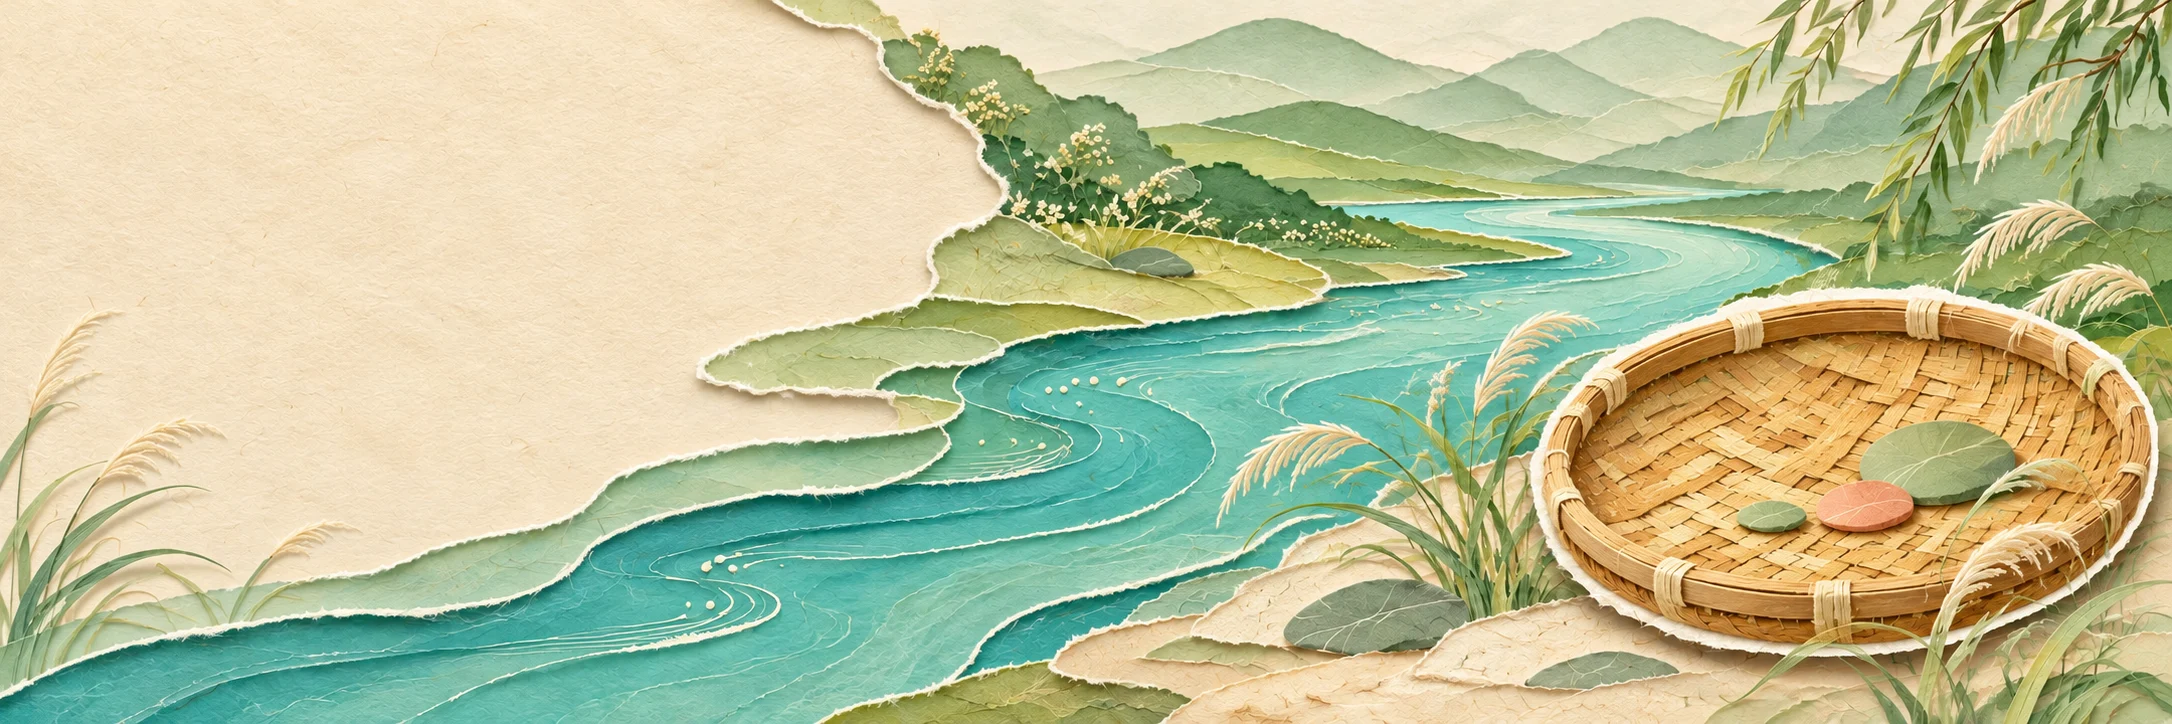
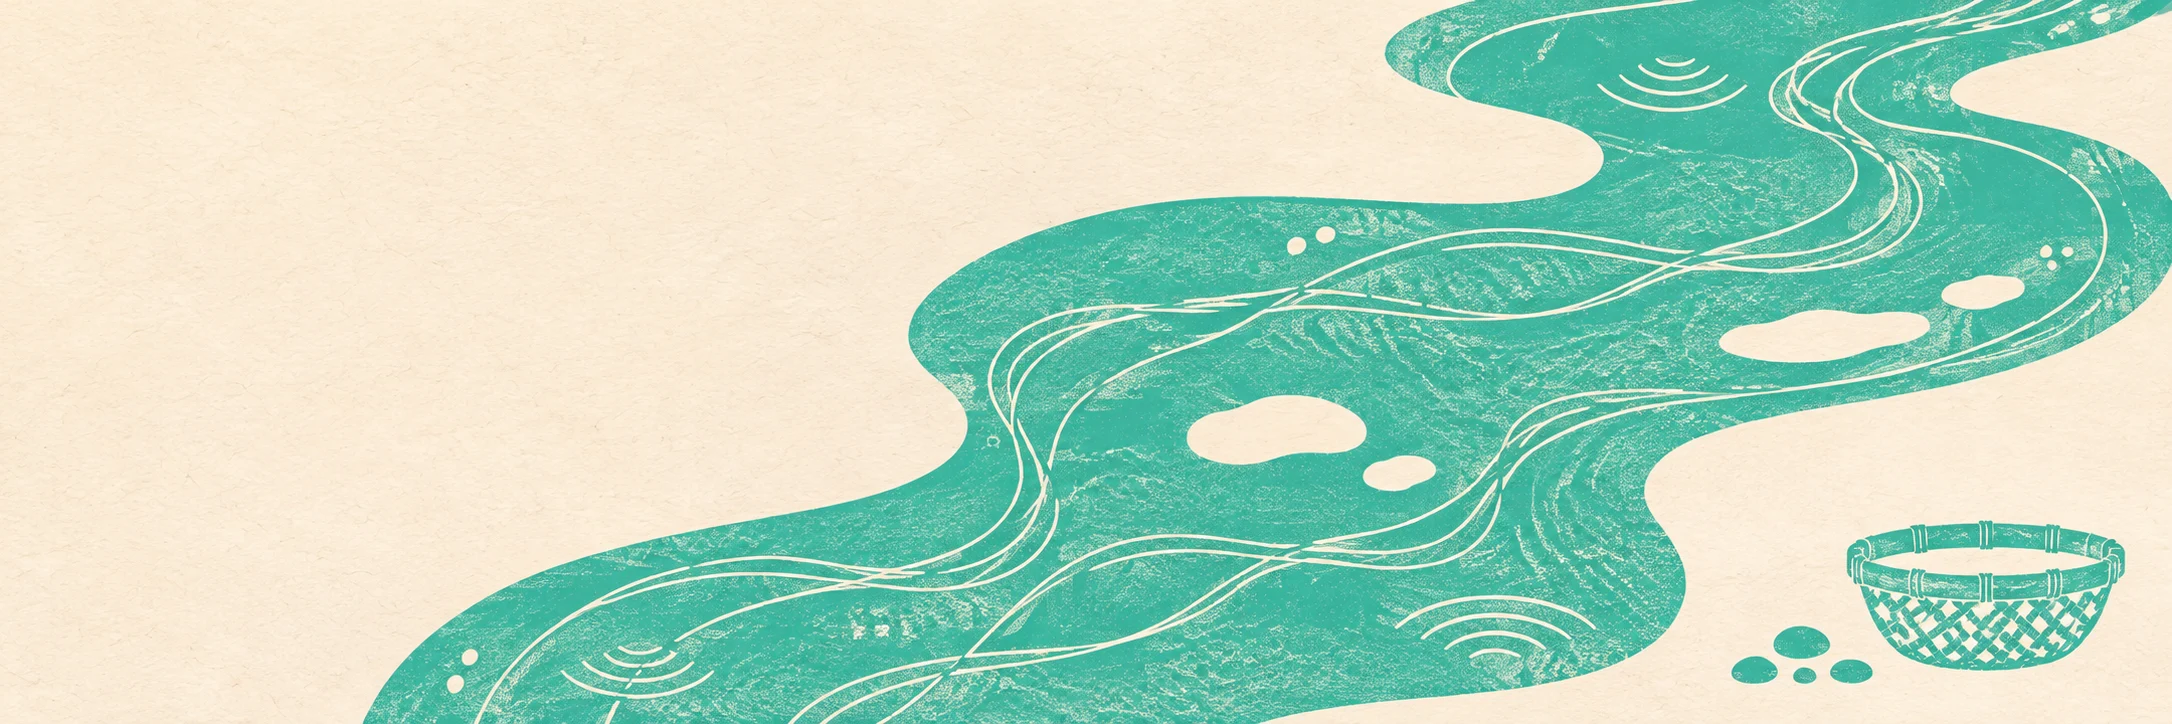
Restyle game with turquoise river and graphic score

diff --git a/game.js b/game.js
@@ -252,7 +252,7 @@ function render(){
   const panels=[
     `<div class="pond stone-bank"><div class="stone-row" id="stones"></div><small>点按试听，横拉或竖捏改变形状和音高</small></div><div class="controls"><label for="shape">宽度</label><input id="shape" type="range"><label for="stone-height">高度</label><input id="stone-height" type="range"><label for="tone">音色明暗</label><input id="tone" type="range"><div class="stone-actions"><button class="secondary" id="pick"></button> <button class="secondary" id="listen">▷ 合奏试听</button></div><p class="picked" id="picked"></p></div>`,
     `<div class="river-sheet"><div id="lanes" class="lanes" aria-label="钢琴音阶"></div><div class="river-drawing"><canvas id="river" class="canvas" width="720" height="280" tabindex="0" aria-label="画旋律，可按上下方向键选音，空格添音，回车换行"></canvas><span id="playhead" class="playhead" aria-hidden="true" hidden></span></div></div><div class="controls"><p><strong>从下往上是 1 Do 到 7 Si。</strong> 点击左边的音名可以试听；从左往右决定播放时间。每抬一次笔，就留下一条新线。</p><p>键盘可用 ↑ ↓ 选音、空格添音、Enter 换行。</p><button class="secondary" id="listen">▷ 播放旋律</button> <button class="secondary" id="undo">撤销上一条</button> <button class="secondary" id="clear">清空</button><p id="river-count" class="picked"></p></div>`,
-    `<div class="controls"><div id="mixer" class="mixer"></div></div><div class="controls mix-preview">${basketPreview()}</div>`,
+    `<div class="controls"><div id="mixer" class="mixer"></div></div><div class="controls mix-preview"><canvas id="mix-score" class="mix-score" width="600" height="140" aria-hidden="true"></canvas>${basketPreview()}</div>`,
     `<div class="pond reply">${state.heard?'「我把你篮子里的整段声音倒过来放。」':'「可以让我听听你的篮子吗？」'}</div><div class="controls"><button class="secondary" id="listen">▷ 听原来的整段</button> <button class="secondary" id="reply">▷ 听小伙伴的回响</button><p></p><label for="echo">把整段倒放也放进篮子 <input id="echo" type="checkbox" ${state.echo?'checked':''}></label></div>`,
     `<div class="postcard"><span id="cardName"></span></div><div class="controls"><label for="name">明信片名字</label><input id="name" type="text" maxlength="40" placeholder="一篮河岸的声音"><p></p><button class="secondary" id="listen">▷ 听明信片</button> <button class="secondary" id="download">下载声音与图片</button></div>`
   ];
@@ -338,17 +338,22 @@ function bindStone(){
 }
 function bindRiver(){
   const canvas=$('river'), ctx=canvas.getContext('2d'), w=canvas.width,h=canvas.height;
-  const colors=['#316b5e','#a55d4c','#446685','#805777','#716026'];
+  const colors=['#f7fff5','#d6fcf6','#ffffc8','#d4e7ff','#ffe7dd'];
   let line=null, keyboardLine=null, selected=0;
   $('lanes').innerHTML=syllables.map((name,i)=>`<button data-pitch="${i}" style="top:${laneY(i)*100}%">${i+1} ${name}</button>`).join('');
   $('lanes').onclick=e=>{const button=e.target.closest('button');if(button){selected=+button.dataset.pitch;draw();play('piano',selected);}};
   function draw(){
     ctx.clearRect(0,0,w,h);
     for(let i=0;i<7;i++){
-      ctx.beginPath();ctx.strokeStyle=i===selected?'#6e9c89':'#f8faf2';ctx.lineWidth=2;
+      ctx.beginPath();ctx.strokeStyle=i===selected?'#e8ffffba':'#e8ffff50';ctx.lineWidth=i===selected?2:1;
       ctx.moveTo(0,laneY(i)*h);ctx.lineTo(w,laneY(i)*h);ctx.stroke();
     }
-    ctx.lineWidth=6;ctx.lineCap='round';ctx.lineJoin='round';
+    ctx.strokeStyle='#d5f7f348';ctx.lineWidth=1;
+    for(let i=0;i<=riverBeats;i++){
+      const x=i*w/riverBeats;
+      ctx.beginPath();ctx.moveTo(x,h-12);ctx.lineTo(x,h-4);ctx.stroke();
+    }
+    ctx.lineWidth=3.5;ctx.lineCap='round';ctx.lineJoin='round';
     state.lines.forEach((points,index)=>{
       ctx.strokeStyle=colors[index%colors.length];ctx.beginPath();
       points.forEach(([x,y],i)=>i?ctx.lineTo(x*w,y*h):ctx.moveTo(x*w,y*h));
@@ -401,9 +406,32 @@ function bindMixer(){
   for(const {key} of effects){
     const input=$('mix-'+key), output=$('amount-'+key);
     const update=()=>{output.textContent=input.value==='0'?'关闭':input.value+'%';};
-    input.oninput=()=>{state.mix[key]=+input.value;update();save();};
+    input.oninput=()=>{state.mix[key]=+input.value;update();drawMixScore();save();};
     update();
   }
+  drawMixScore();
+}
+function drawMixScore(){
+  const canvas=$('mix-score'), ctx=canvas.getContext('2d');
+  const {width,height}=canvas;
+  ctx.clearRect(0,0,width,height);
+  const curve=(x,layer)=>height*(.27+layer*.145)+Math.sin(x/width*Math.PI*(2+layer*.43)+layer*1.34)*(5+state.mix[effects[layer].key]*.24);
+  ctx.lineWidth=1;
+  effects.forEach(({key},layer)=>{
+    ctx.strokeStyle=state.mix[key]?'#d2fff4a0':'#d2fff44d';
+    ctx.beginPath();
+    for(let x=8;x<width-8;x+=3){
+      const y=curve(x,layer);
+      if(x===8)ctx.moveTo(x,y);else ctx.lineTo(x,y);
+    }
+    ctx.stroke();
+  });
+  ctx.strokeStyle='#c7f8ec57';
+  ctx.beginPath();
+  for(let x=9;x<width-8;x+=5){
+    ctx.moveTo(x,curve(x,0));ctx.lineTo(x,curve(x,3));
+  }
+  ctx.stroke();
 }
 function saveCard(){
   const name=state.name.trim()||'一篮河岸的声音';

diff --git a/style.css b/style.css
@@ -21,3 +21,46 @@
 .mix-preview{display:flex;align-items:center}
 .mix-preview .basket-preview{border:0;padding:0;width:100%}
 @media(max-width:380px){.mixer{grid-template-columns:1fr}}
+
+:root{--paper:#f5f8f4;--ink:#163f42;--green:#0b626b;--muted:#486d70;--line:#cbdcda}
+body{background:var(--paper) repeating-linear-gradient(0deg,#214d4810 0 1px,transparent 1px 4px)}
+header{background:#fbfdf7}
+.seal{background:#0b626b;color:#f1fff9}
+main{padding-top:23px}
+.hero{min-height:370px;border-radius:7px;border-color:#bfdbd6;background-color:#f7faf2;background-position:center right}
+.hero:before{background:linear-gradient(90deg,#f7faf2e8 0%,#f7faf275 29%,transparent 52%)}
+.hero-copy{padding-left:5.2%}
+.eyebrow{color:#17666d;border:0;border-radius:0;border-bottom:1px solid #6d9e9f;padding:0 0 4px}
+h1{font-size:clamp(42px,6vw,81px);letter-spacing:.02em;font-weight:900}
+h1 span{color:#24949d}
+.hero p{letter-spacing:.07em}
+.story,.quiet,.secondary{background:#f7fcf7;border-color:#a6c2bf;color:#164e53}
+.quiet:hover,.secondary:hover,.story:hover{background:#e2f0eb}
+nav{gap:0;border:1px solid #b8d0ce;border-radius:6px;background:#f7fcf8}
+nav button{border:0;border-right:1px solid #c5dbd7;border-radius:0;background:transparent;padding:13px 12px;color:#245459}
+nav button:last-child{border-right:0}
+nav button:hover{background:#e7f4ef}
+nav button[aria-current=step]{background:#cde9e3;box-shadow:inset 0 -3px #28868d}
+nav small{color:#506e70}
+.number,nav [aria-current] .number{border:1px solid #87b4b3;background:transparent;color:#21585d}
+nav [aria-current] .number{border-color:#26767b}
+.workbench{border:1px solid #b8d0ce;border-radius:7px;background:#fbfdf8}
+.chapter{color:#1b777f}
+.controls{background:#f1f8f4;border-color:#d1e4df;border-radius:6px}
+.primary{background:#105f68;border-color:#105f68}
+.primary:hover{background:#104d56}
+.pond{background:repeating-radial-gradient(ellipse at 50% 60%,transparent 0 16px,#e9faf399 17px 18px,transparent 19px 31px),#d4eae4;border-color:#bfdcd4}
+.stone-row .stone span,.basket-pebble{background:radial-gradient(circle at 32% 24%,#f0fff7 0,#afdad1 46%,#639d98 100%)}
+.river-sheet{background:#0e727b;border:1px solid #0d656e;border-radius:6px}
+.river-sheet .canvas,.mix-score{background:repeating-linear-gradient(90deg,#bdeee41d 0 1px,transparent 1px 9px),#147e89}
+.river-sheet .canvas,.river-drawing{border-radius:0 5px 5px 0}
+.lanes button{background:#d6f5eb;color:#164f54;border-color:#aadbd2}
+.playhead{background:#fff1b9;box-shadow:0 0 0 1px #1b545b9d}
+.playhead::before{border-top-color:#fff1b9}
+.effect,.basket-preview{border-color:#c7ddda}
+.mix-preview{display:grid;align-content:start;gap:12px}
+.mix-score{display:block;width:100%;height:auto;min-height:75px;border-radius:4px}
+.postcard{background-color:#d0e7df;background-image:linear-gradient(0deg,#133e43e8,transparent 76%),url(river.webp)}
+footer{color:#4e7170}
+@media(max-width:780px){.hero{min-height:320px;background-position:54% center}.hero:before{background:linear-gradient(90deg,#f7faf2f5 0%,#f7faf2b5 24%,transparent 72%)}}
+@media(max-width:440px){.hero{min-height:293px;background-position:48% center}.hero-copy{padding-left:15px}.hero:before{background:linear-gradient(90deg,#f7faf2f7 0%,#f7faf2de 28%,#f7faf243 72%,transparent)}}

diff --git a/index.html b/index.html
@@ -1,6 +1,6 @@
 <!doctype html><html lang="zh-CN"><head><meta charset="utf-8"><meta name="viewport" content="width=device-width, initial-scale=1"><meta name="description" content="沿着纸艺河岸收集声音，做一张属于你的声音明信片。"><title>竹篮打水，捞点别的</title><link rel="stylesheet" href="style.css"><script defer src="game.js"></script></head>
 <body><header><div class="brand"><span class="seal">♧</span><span>竹篮打水，捞点别的</span></div><button id="sound" class="quiet" aria-pressed="false">♪　声音开启</button></header>
-<main><section class="hero"><div class="hero-copy"><span class="eyebrow">沿河拾音 · 声音小游戏</span><h1>竹篮打水，<br>捞点别的<span>。</span></h1><p>水留不住，声音可以带回家。</p><button class="story" id="story">读一读河边的故事 <b>↗</b></button></div><span class="image-label">河岸手记 · 拾音图</span></section>
+<main><section class="hero"><div class="hero-copy"><span class="eyebrow">沿河拾音 · 声音小游戏</span><h1>竹篮打水，<br>捞点别的<span>。</span></h1><p>水留不住，声音可以带回家。</p><button class="story" id="story">读一读河边的故事 <b>↗</b></button></div></section>
 <nav id="steps" aria-label="河岸路线"></nav>
 <section class="workbench" id="workbench" aria-live="polite"></section>
 </main><footer>水留在河里，声音带回家。<span>〰</span>今天这一篮，刚刚好。</footer>
